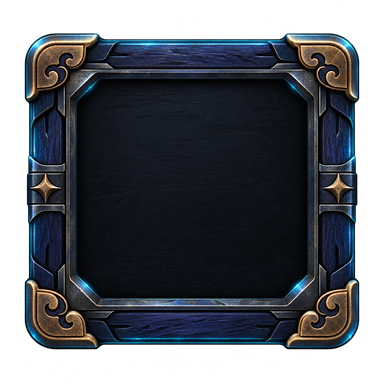
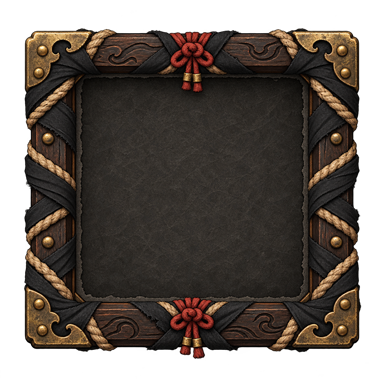
feat: replace futuristic UI with ninja scroll theme

diff --git a/styles.css b/styles.css
@@ -158,7 +158,7 @@ input, select, button { font: inherit; }
   border-radius: 9px;
   padding: 13px 18px;
   background-color: #131a26;
-  background-image: url("assets/ui/nav-button-frame.png?v=0.18.0");
+  background-image: url("assets/ui/nav-button-frame.png?v=0.19.0");
   background-position: center;
   background-size: 100% 100%;
   color: #ffe1a8;
@@ -194,7 +194,7 @@ input, select, button { font: inherit; }
 .dojo-section-heading p, .skill-tree-heading p { margin: 0; color: #7f8da1; font-size: .65rem; }
 .dojo-section-heading > span { border: 1px solid rgba(245,163,87,.35); border-radius: 99px; padding: 4px 8px; color: #f5b978; font-size: .61rem; font-weight: 850; text-transform: uppercase; }
 .equipment-grid { display: grid; grid-template-columns: repeat(4, 1fr); gap: 8px; margin: 0; }
-.gear-slot { position: relative; display: grid !important; min-width: 0; aspect-ratio: 1; align-content: center; justify-items: center; gap: 7px !important; border: 0; border-radius: 12px; padding: 22% 18% 18% !important; background-color: #101824; background-image: url("assets/ui/equipment-slot-frame.png?v=0.18.0"); background-position: center; background-size: 100% 100%; color: #e9eef5; text-align: center; cursor: pointer; filter: drop-shadow(0 7px 9px rgba(0,0,0,.34)); transition: filter .16s ease, transform .16s ease; }
+.gear-slot { position: relative; display: grid !important; min-width: 0; aspect-ratio: 1; align-content: center; justify-items: center; gap: 7px !important; border: 0; border-radius: 12px; padding: 22% 18% 18% !important; background-color: #101824; background-image: url("assets/ui/equipment-slot-frame.png?v=0.19.0"); background-position: center; background-size: 100% 100%; color: #e9eef5; text-align: center; cursor: pointer; filter: drop-shadow(0 7px 9px rgba(0,0,0,.34)); transition: filter .16s ease, transform .16s ease; }
 .gear-slot:hover:not(:disabled), .gear-slot:focus-visible { outline: none; filter: drop-shadow(0 0 7px rgba(245,163,87,.5)); transform: translateY(-2px); }
 .gear-slot.empty { color: #aab5c5; }
 .gear-slot.locked { cursor: not-allowed; opacity: .48; }
@@ -358,7 +358,7 @@ kbd { border: 1px solid #4e5b70; border-bottom-width: 2px; border-radius: 4px; p
 .service-grid article span { color: #f5a357; font-size: 0.72rem; font-weight: 850; letter-spacing: 0.12em; }
 .service-grid article strong { font-size: 0.88rem; }
 .service-actions { display: flex; flex-wrap: wrap; gap: 9px; }
-.secondary-button { border: 0; border-radius: 9px; padding: 14px 22px; background-color: #111925; background-image: url("assets/ui/nav-button-frame.png?v=0.18.0"); background-position: center; background-size: 100% 100%; color: #e5eaf2; font-weight: 800; text-shadow: 0 2px 3px #000; cursor: pointer; }
+.secondary-button { border: 0; border-radius: 9px; padding: 14px 22px; background-color: #111925; background-image: url("assets/ui/nav-button-frame.png?v=0.19.0"); background-position: center; background-size: 100% 100%; color: #e5eaf2; font-weight: 800; text-shadow: 0 2px 3px #000; cursor: pointer; }
 .secondary-button:hover { color: #ffd697; filter: drop-shadow(0 0 6px rgba(245,163,87,.35)); }
 .development-note { border-left: 3px solid #f5a357; padding: 12px 14px; background: rgba(245,163,87,0.08); color: #bec7d4; font-size: 0.82rem; }
 .npc-guide-strip { overflow: hidden; border: 1px solid #344154; border-radius: 14px; background: linear-gradient(145deg, rgba(28,38,55,.98), rgba(9,14,22,.98)); box-shadow: 0 18px 50px rgba(0,0,0,.28); }
@@ -680,7 +680,7 @@ body:has(#meta:not([hidden])) .game-settings-panel {
   border-radius: 22px;
   padding: 15px 24px;
   background-color: rgba(7,15,29,.96);
-  background-image: url("assets/ui/hud-frame.png?v=0.18.0"), linear-gradient(180deg, rgba(8,21,38,.95), rgba(7,15,29,.94));
+  background-image: url("assets/ui/hud-frame.png?v=0.19.0"), linear-gradient(180deg, rgba(8,21,38,.95), rgba(7,15,29,.94));
   background-position: center;
   background-size: 100% 100%;
   box-shadow: inset 0 0 0 1px rgba(255,255,255,.025), 0 14px 38px rgba(0,0,0,.38);
@@ -973,7 +973,7 @@ body:has(#game:not([hidden])) .game-heading {
   border-radius: 15px;
   padding: 0;
   background-color: #0d1826;
-  background-image: url("assets/ui/action-button-frame.png?v=0.18.0");
+  background-image: url("assets/ui/action-button-frame.png?v=0.19.0");
   background-position: center;
   background-size: 100% 100%;
   color: #dcecff;
@@ -1010,7 +1010,7 @@ body:has(#game:not([hidden])) .game-heading {
   border-radius: 18px;
   padding: 0 20px;
   background-color: #0d1623;
-  background-image: url("assets/ui/nav-button-frame.png?v=0.18.0");
+  background-image: url("assets/ui/nav-button-frame.png?v=0.19.0");
   background-position: center;
   background-size: 100% 100%;
   box-shadow: inset 0 0 0 1px rgba(255,255,255,.03), 0 12px 32px rgba(0,0,0,.38);
@@ -1188,4 +1188,223 @@ body:has(#game:not([hidden])) .game-heading {
     height: 100% !important;
     object-fit: contain;
   }
+}
+
+/* Keep the illustrated skin last so legacy blue panels cannot bleed through. */
+:root {
+  --ui-ink: #171310;
+  --ui-paper: #27211c;
+  --ui-paper-deep: #15110f;
+  --ui-wood: #5b3825;
+  --ui-rope: #b49568;
+  --ui-crimson: #9b4038;
+  --ui-gold: #dda052;
+  --ui-text: #f1e6d3;
+  --ui-muted: #b9aa96;
+}
+
+body {
+  background: radial-gradient(circle at 20% 0%, rgba(126,54,36,.24), transparent 34rem), #100d0b;
+}
+
+.village-topbar {
+  padding: 16px 28px 18px;
+  border: 0;
+  background-color: #17120f;
+  background-image: url("assets/ui/hud-frame.png?v=0.19.0"), linear-gradient(180deg, rgba(31,24,19,.98), rgba(17,13,11,.98));
+}
+
+.player-settings-trigger,
+.notice-icon,
+.notice-arrow,
+.equipment-modal-heading button {
+  border: 0;
+  background-color: var(--ui-ink);
+  background-image: url("assets/ui/action-button-frame.png?v=0.19.0");
+  background-position: center;
+  background-size: 100% 100%;
+  color: #ead9bf;
+}
+
+.primary-button,
+.secondary-button,
+.village-return button,
+.mission-card button,
+.npc-actions button,
+.saga-back,
+.attribute-list button {
+  min-height: 46px;
+  border: 0;
+  border-radius: 5px;
+  padding: 13px 28px;
+  background-color: #201712;
+  background-image: url("assets/ui/nav-button-frame.png?v=0.19.0");
+  background-position: center;
+  background-size: 100% 100%;
+  color: #f0dfc6;
+  text-shadow: 0 2px 3px #000;
+}
+
+.village-return button {
+  min-width: 184px;
+  min-height: 62px;
+  padding: 13px 34px;
+}
+
+.gear-slot {
+  border: 0;
+  padding: 24% 20% 20% !important;
+  background-color: #1b1714;
+  background-image: url("assets/ui/equipment-slot-frame.png?v=0.19.0");
+  background-position: center;
+  background-size: 100% 100%;
+}
+
+.creator-card,
+.dojo-card,
+.stage-panel,
+.dialogue-box,
+.equipment-modal-card,
+.game-settings-panel {
+  border: 0;
+  border-radius: 4px;
+  padding: 34px 38px;
+  background-color: var(--ui-paper);
+  background-image: url("assets/ui/panel-frame.png?v=0.19.0");
+  background-position: center;
+  background-size: 100% 100%;
+  box-shadow: 0 24px 65px rgba(0,0,0,.56);
+  color: var(--ui-text);
+}
+
+.dialogue-box.with-portrait {
+  padding: 28px 38px 28px 0;
+  background-color: var(--ui-paper);
+  background-image: url("assets/ui/panel-frame.png?v=0.19.0");
+  background-position: center;
+  background-size: 100% 100%;
+}
+
+.dojo-section,
+.skill-tree,
+.appearance-panel,
+.affinity-selector {
+  border-color: rgba(139,95,59,.5);
+  background: rgba(24,19,16,.88);
+}
+
+.saga-card,
+.mission-card,
+.service-grid article,
+.npc-guide-strip,
+.village-map-card > .notice-card {
+  border: 0;
+  border-radius: 4px;
+  background-color: #211b17;
+  background-image: url("assets/ui/card-frame.png?v=0.19.0");
+  background-position: center;
+  background-size: 100% 100%;
+  color: var(--ui-text);
+  box-shadow: 0 10px 24px rgba(0,0,0,.34);
+}
+
+.saga-card,
+.saga-card:hover:not(:disabled) {
+  min-height: 146px;
+  padding: 28px 42px;
+  background-color: #211b17;
+  background-image: url("assets/ui/card-frame.png?v=0.19.0");
+}
+
+.mission-card { min-height: 92px; padding: 20px 32px; }
+.service-grid article, .npc-guide-strip { padding: 26px 34px; }
+.village-map-card > .notice-card { padding: 18px 34px; }
+.stage-panel.saga-selector { padding: 48px 48px 40px; }
+
+.summary-item b,
+.notice-detail,
+.notice-card.ally .notice-detail {
+  color: var(--ui-gold);
+}
+
+.player-settings-trigger:focus-visible,
+button:focus-visible {
+  outline-color: #d59a55;
+}
+
+.attribute-list button {
+  display: grid;
+  min-height: 56px;
+  align-content: center;
+  justify-items: center;
+  gap: 2px;
+  padding: 11px 30px;
+  text-align: center;
+}
+
+.attribute-list button small {
+  display: block;
+  line-height: 1.15;
+}
+
+.equipment-option,
+.jutsu-card,
+.affinity-slot,
+.affinity-option,
+.technique-slot,
+.skill-node,
+.archive-card li,
+.stat-grid span,
+.creator-form input,
+.creator-form select,
+.cosmetic-grid select,
+.equipment-grid select {
+  border-color: rgba(129,91,61,.56);
+  background: rgba(29,24,20,.94);
+  color: var(--ui-text);
+}
+
+.equipment-option,
+.affinity-option,
+.skill-node { padding: 13px 15px; }
+
+.equipment-option:hover,
+.equipment-option.selected,
+.skill-node.selected,
+.jutsu-card.selected {
+  border-color: #bc7844;
+  background: rgba(95,48,30,.55);
+}
+
+.affinity-slot.selected,
+.technique-slot {
+  border-color: rgba(156,119,72,.6);
+  background: rgba(45,35,27,.9);
+}
+
+.equipment-modal { background: rgba(14,10,8,.84); }
+.stage-options { scrollbar-color: #8d6041 #1a1512; }
+
+@media (min-width: 981px) {
+  main,
+  body:has(#meta:not([hidden])) main {
+    border-color: rgba(111,70,43,.72);
+    background: #130f0c;
+  }
+}
+
+@media (max-width: 650px) {
+  .creator-card,
+  .dojo-card,
+  .stage-panel,
+  .equipment-modal-card,
+  .game-settings-panel { padding: 26px 22px; }
+  .saga-card { padding: 24px 28px; }
+  .mission-card { padding: 18px 24px; }
+}
+
+.village-topbar .summary-item b,
+.village-map-card .notice-detail,
+.village-map-card .notice-card.ally .notice-detail {
+  color: #dda052 !important;
 }

diff --git a/game.js b/game.js
@@ -1,10 +1,10 @@
-import { SEALS, BASE_ACTIONS, JUTSU_LIBRARY, ENEMY_ACTIONS, ENEMY_ROSTER } from "./src/data.js?v=0.18.0";
+import { SEALS, BASE_ACTIONS, JUTSU_LIBRARY, ENEMY_ACTIONS, ENEMY_ROSTER } from "./src/data.js?v=0.19.1";
 import { applyStatus, affinityLabel, affinityMultiplier, formatStatuses, hasStatus, hitChance } from "./src/rules.js?v=0.15.1";
 import { createGeometricFighter, destroyFighter, fighterTextureKey, queueFighterTexture } from "./src/fighters.js?v=0.9.0";
-import { playerFighterAppearance } from "./src/character.js?v=0.18.0";
+import { playerFighterAppearance } from "./src/character.js?v=0.19.1";
 import { createActionButton, createBar } from "./src/ui.js?v=0.15.2";
-import { mountMetaUI } from "./src/meta-ui.js?v=0.18.0";
-import { awardEncounter, completeMission, derivedStats, loadSave, writeSave } from "./src/save.js?v=0.18.0";
+import { mountMetaUI } from "./src/meta-ui.js?v=0.19.1";
+import { awardEncounter, completeMission, derivedStats, loadSave, writeSave } from "./src/save.js?v=0.19.1";
 import { canAccessElement, elementIcon, elementName as localizedElementName } from "./src/elements.js?v=0.15.1";
 
 const Phaser = window.Phaser;

diff --git a/src/meta-ui.js b/src/meta-ui.js
@@ -1,7 +1,7 @@
-import { fighterPreviewSvg, playerFighterAppearance } from "./character.js?v=0.18.0";
-import { EQUIPMENT, JUTSU_LIBRARY, MISSIONS, STORY_SAGAS } from "./data.js?v=0.18.0";
-import { LOCATION_CAST, NPCS, locationDialogue, npcByName } from "./npcs.js?v=0.18.0";
-import { affinityXpForElement, createCharacter, derivedStats, isTechniqueLearned, loadoutSlotsForLevel, spendAttribute, writeSave, xpForNextLevel } from "./save.js?v=0.18.0";
+import { fighterPreviewSvg, playerFighterAppearance } from "./character.js?v=0.19.1";
+import { EQUIPMENT, JUTSU_LIBRARY, MISSIONS, STORY_SAGAS } from "./data.js?v=0.19.1";
+import { LOCATION_CAST, NPCS, locationDialogue, npcByName } from "./npcs.js?v=0.19.1";
+import { affinityXpForElement, createCharacter, derivedStats, isTechniqueLearned, loadoutSlotsForLevel, spendAttribute, writeSave, xpForNextLevel } from "./save.js?v=0.19.1";
 import { BASIC_ELEMENT_IDS, ELEMENTS, ELEMENT_RANK_LABELS, basicRequirements, canAccessElement, elementIcon, elementName } from "./elements.js?v=0.15.1";
 
 const COMING_SOON_LOCATIONS = {

diff --git a/index.html b/index.html
@@ -6,7 +6,7 @@
   <meta name="description" content="Demo de RPG ninja 2D por turnos con campaña y progresión.">
   <title>Crónicas del Sello · Demo</title>
   <link rel="preload" href="assets/village/aldea.webp?v=0.12.0" as="image" type="image/webp" fetchpriority="high">
-  <link rel="stylesheet" href="styles.css?v=0.18.0">
+  <link rel="stylesheet" href="styles.css?v=0.19.1">
 </head>
 <body>
   <main>
@@ -37,6 +37,6 @@
     <noscript>Este prototipo necesita JavaScript activado.</noscript>
   </main>
   <script src="https://cdn.jsdelivr.net/npm/phaser@3.90.0/dist/phaser.min.js"></script>
-  <script type="module" src="game.js?v=0.18.0"></script>
+  <script type="module" src="game.js?v=0.19.1"></script>
 </body>
 </html>

diff --git a/src/save.js b/src/save.js
@@ -1,4 +1,4 @@
-import { EQUIPMENT, JUTSU_LIBRARY, MISSIONS } from "./data.js?v=0.18.0";
+import { EQUIPMENT, JUTSU_LIBRARY, MISSIONS } from "./data.js?v=0.19.1";
 import { BASIC_ELEMENT_IDS, basicRequirements, canAccessElement } from "./elements.js?v=0.15.1";
 
 export const SAVE_KEY = "cronicas-del-sello-save";
